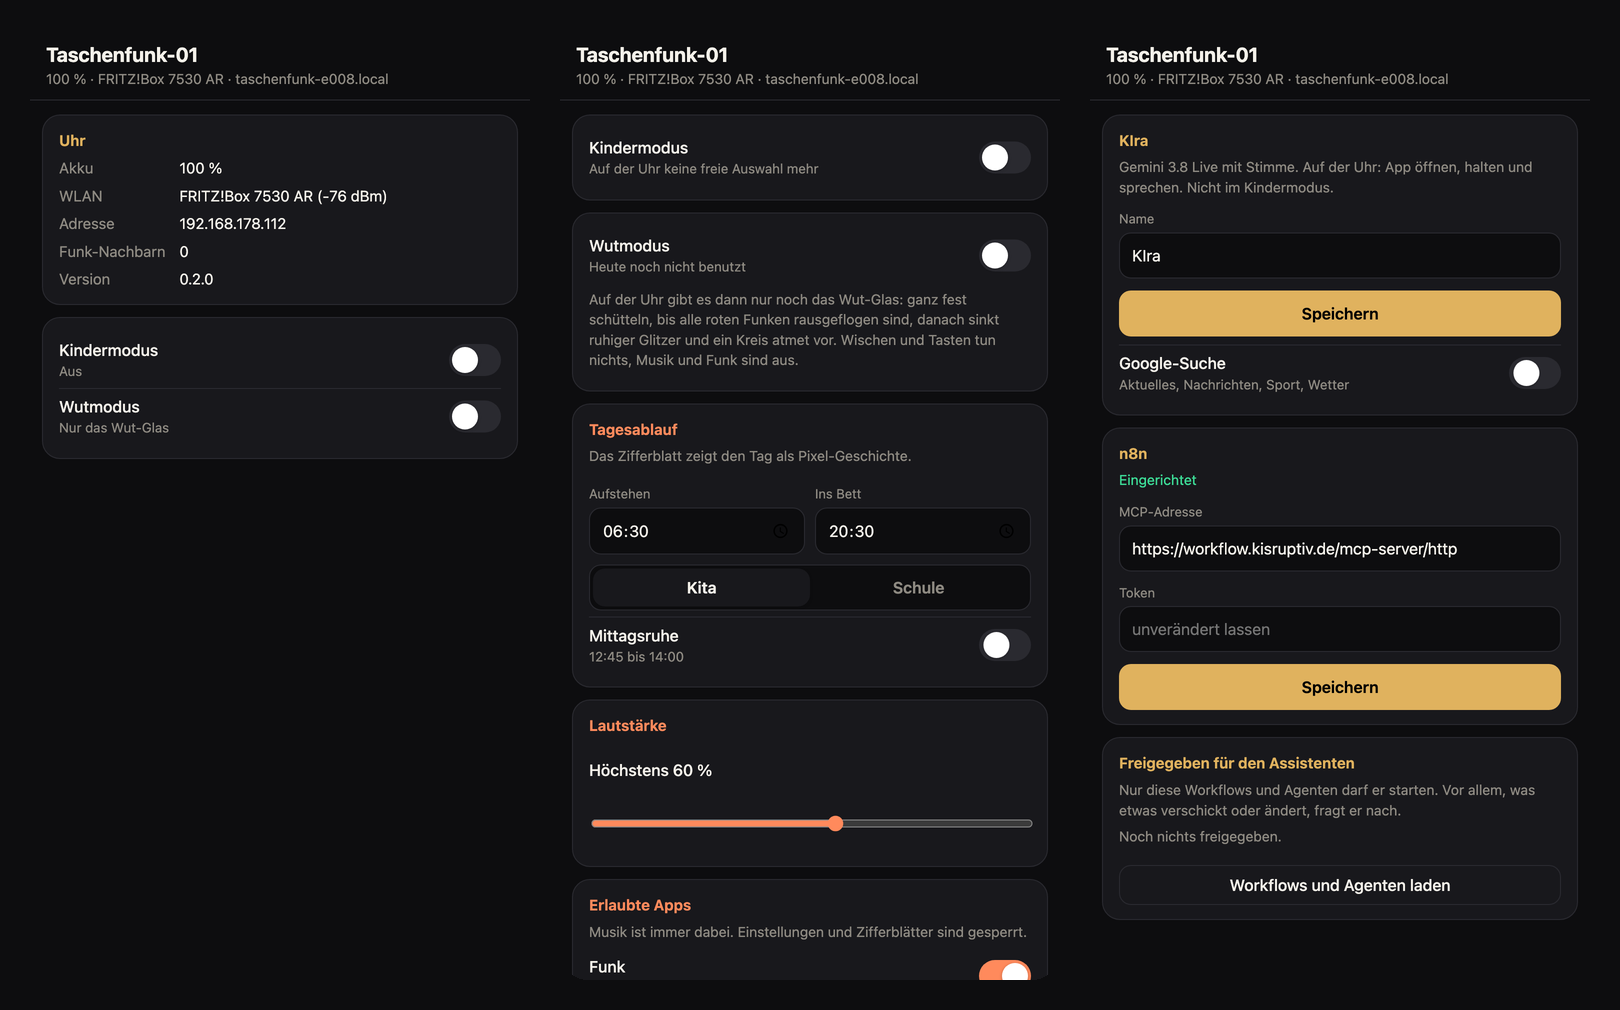
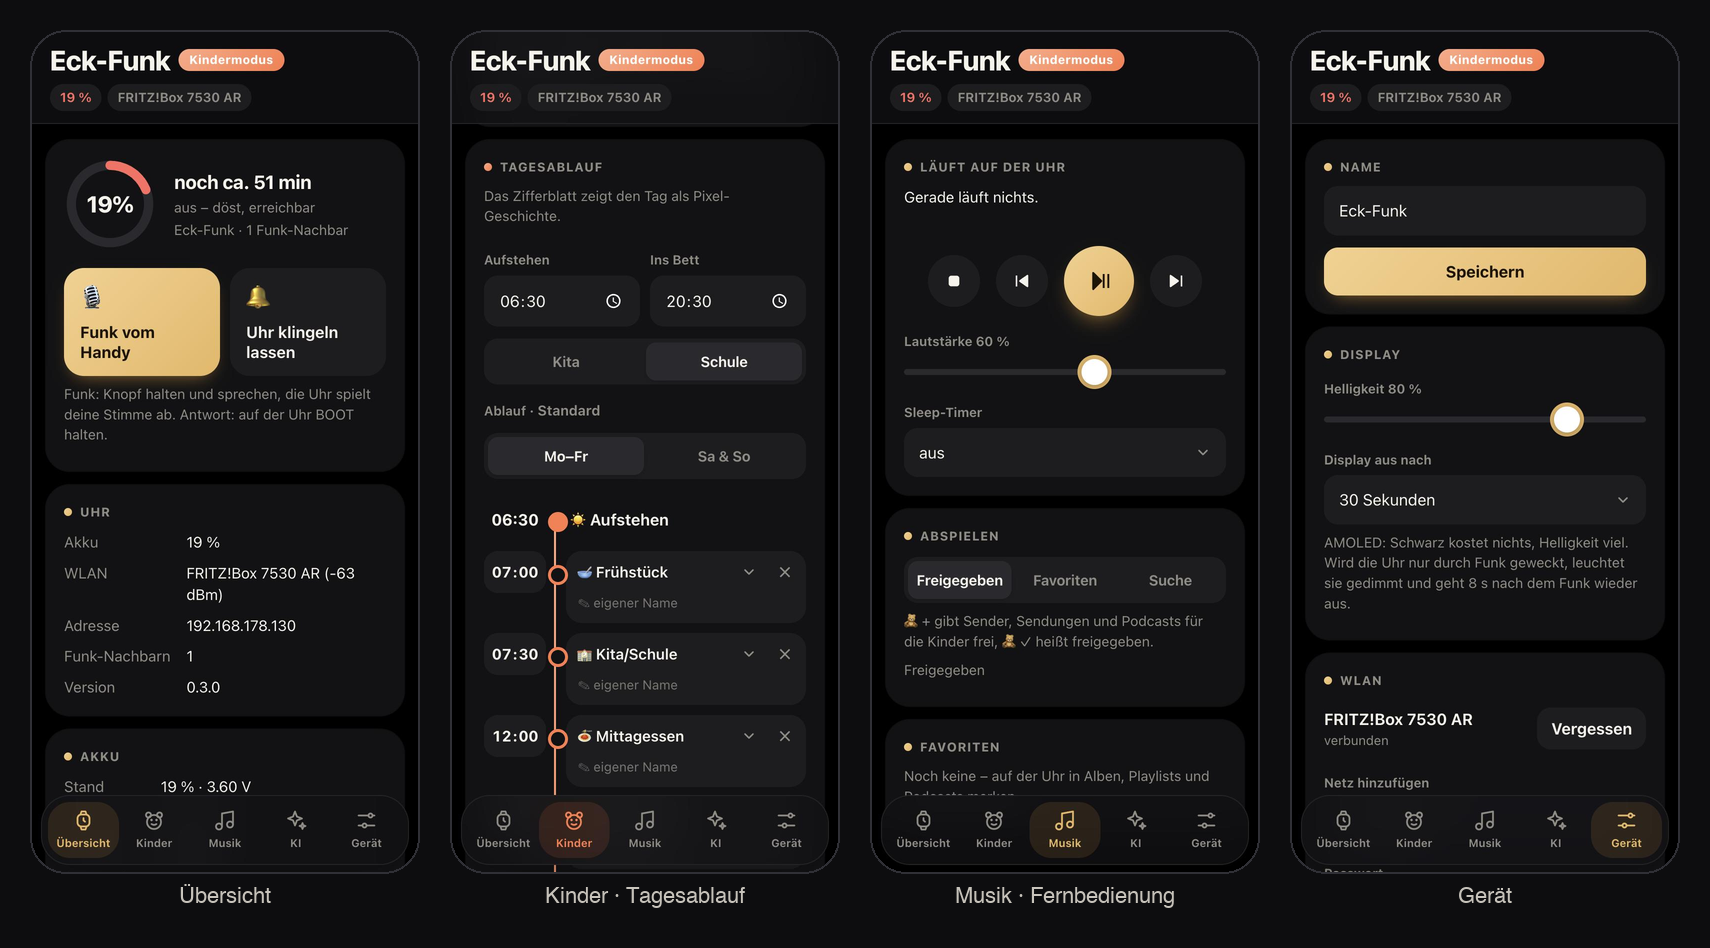
README: neue Bilder der Weboberfläche, Reiter-Übersicht, Display und Sparmodus aktuell

diff --git a/tools/gallery.py b/tools/gallery.py
@@ -53,15 +53,19 @@ o = Image.new("RGB", (4 * (size + 16) + 5 * pad, size + 16 + 2 * pad), BG)
 for i, (n, _) in enumerate(items): o.paste(watch(n, size), (pad + i * (size + 16 + pad), pad))
 o.save(f"{OUT}/hero.png", optimize=True)
 
-# Weboberfläche: drei Reiter nebeneinander, Spotify-Kennung unkenntlich
-ws = []
-for n in ("start", "kinder", "ki"):
-    i = Image.open(f"{SH}/web_{n}.png").convert("RGB").crop((0, 0, 1000, 1900)).resize((500, 950), Image.LANCZOS)
-    ws.append(i)
-o = Image.new("RGB", (3 * 500 + 4 * 30, 950 + 60), BG)
-for k, i in enumerate(ws):
-    m = Image.new("L", i.size, 0)
-    ImageDraw.Draw(m).rounded_rectangle((0, 0, i.width - 1, i.height - 1), 28, fill=255)
-    o.paste(i, (30 + k * 530, 30), m)
+# Weboberfläche: vier Reiter nebeneinander (Bildschirmfotos 390 × 844 im Dunkelmodus, z. B. aus der Handy-Ansicht)
+ws = [("web_start", "Übersicht"), ("web_kinder", "Kinder · Tagesablauf"), ("web_musik", "Musik · Fernbedienung"), ("web_geraet", "Gerät")]
+w, h, pad, ch = 390, 844, 30, 44
+o = Image.new("RGB", (4 * w + 5 * pad, h + 2 * pad + ch), BG)
+d = ImageDraw.Draw(o)
+for k, (n, c) in enumerate(ws):
+    i = Image.open(f"{SH}/{n}.png").convert("RGB").resize((w, h), Image.LANCZOS)
+    m = Image.new("L", (w, h), 0)
+    ImageDraw.Draw(m).rounded_rectangle((0, 0, w - 1, h - 1), 36, fill=255)
+    x = pad + k * (w + pad)
+    o.paste(i, (x, pad), m)
+    d.rounded_rectangle((x, pad, x + w - 1, pad + h - 1), 36, outline=(48, 48, 54), width=2)
+    tw = d.textlength(c, font=cap)
+    d.text((x + (w - tw) / 2, pad + h + 12), c, fill=(200, 196, 188), font=cap)
 o.save(f"{OUT}/weboberflaeche.png", optimize=True)
 print("ok")

diff --git a/README.md b/README.md
@@ -9,7 +9,7 @@ selbst, eingerichtet wird vom Handy aus.
 
 ![Taschenfunk](docs/screens/hero.png)
 
-*Alle Bilder sind echte Bildschirmfotos vom Gerät (`tools/remote.py`).*
+*Alle Bilder sind echte Bildschirmfotos – von der Uhr (`tools/remote.py`) und von der Weboberfläche im Handy-Browser.*
 
 ```
 firmware/   PlatformIO-Projekt (Arduino-Core 3.3 / ESP-IDF 5.5, LVGL 9.2)
@@ -154,9 +154,16 @@ Die Weboberfläche zeigt, wie oft heute die Wut rausgeschüttelt wurde.
 ![Weboberfläche](docs/screens/weboberflaeche.png)
 
 `https://<IP der Uhr>` (QR-Code unter Einstellungen → Weboberfläche; `http://` leitet um). Fürs Handy gebaut,
-hell und dunkel. Reiter: Übersicht (mit Akku) · Kinder · Musik (Fernbedienung, Favoriten) · KI (Modelle, n8n) ·
-Gerät (WLAN, Schlüssel, Firmware, Sicherung); direkt verlinkbar (`#kinder`, `#ki` …).
-Schlüssel und Tokens werden nur gesetzt, nie ausgelesen.
+hell und dunkel (im Dunkeln echtes Schwarz wie auf der Uhr), mit Akku-Ring, schwebender Navigation und
+Zeitleiste für den Tagesablauf. Reiter:
+
+- **Übersicht:** Akku mit Restlaufzeit und Verlauf, Funk vom Handy, Uhr klingeln lassen, Sparmodus, Tiefschlaf, Nachtruhe
+- **Kinder:** Kindermodus, Wutmodus, Tagesablauf, Routinen und Sterne, Balance-Rekorde, Schlafenszeit, Lautstärke, Apps, Freigaben, PIN
+- **Musik:** Fernbedienung (abspielen, steuern, Lautstärke, Sleep-Timer), Suche mit 🧸 + zum Freigeben, Favoriten
+- **KI:** Name, Google-Suche, Modelle und Stimme, n8n mit Freigaben
+- **Gerät:** Name, Display (Helligkeit, Display-Zeit), WLAN, Gemini-Schlüssel, Firmware, Sicherung
+
+Direkt verlinkbar (`#kinder`, `#musik`, `#ki`, `#geraet`). Schlüssel und Tokens werden nur gesetzt, nie ausgelesen.
 
 **Nur HTTPS:** Die Uhr stellt sich beim ersten Start ein eigenes Zertifikat aus, deshalb warnt der Browser
 einmal („trotzdem öffnen“) – danach ist die Verbindung verschlüsselt, auch PIN und Schlüssel. HTTPS ist
@@ -214,9 +221,13 @@ gerade wach hält; `/api/pm` zeigt Schlafanteile und Sperren.
 Gebaut wird dafür das Arduino-Framework mit eigener ESP-IDF-Konfiguration (`custom_sdkconfig` in
 `platformio.ini`); der erste Build dauert einige Minuten länger.
 
+**Display:** Helligkeit und Display-Zeit stellt man auch in der Weboberfläche ein (Gerät → Display). Wird die
+Uhr nur durch eingehenden Funk geweckt, leuchtet sie gedimmt (30 %) und geht 8 s nach dem Funk wieder aus –
+bis jemand sie anfasst.
+
 **Sparmodus** (automatisch ab 20 %, oder immer): Display höchstens 40 % hell und nach 10 s aus, Zifferblätter
-nur noch einmal pro Sekunde, kein Funk im Hintergrund, ohne laufende Musik WLAN im Stromsparbetrieb und
-Prozessor auf 80 MHz, Tiefschlaf schon nach 3 statt 10 Minuten.
+nur noch einmal pro Sekunde, kein Funk im Hintergrund; ist ein Tiefschlaf eingestellt, kommt er schon nach
+3 Minuten.
 
 ## Updates per WLAN
 
